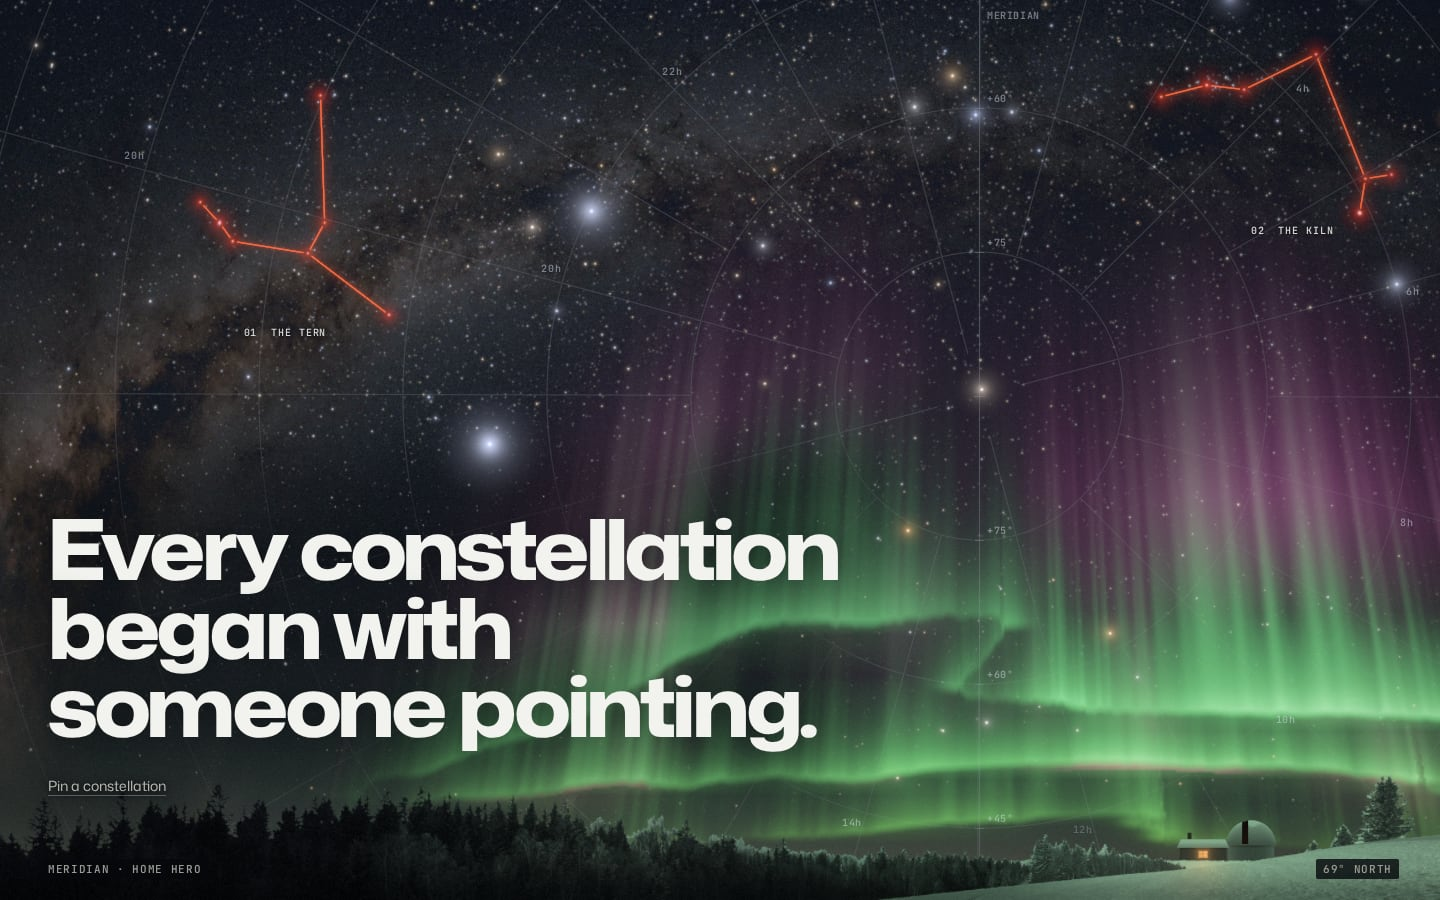
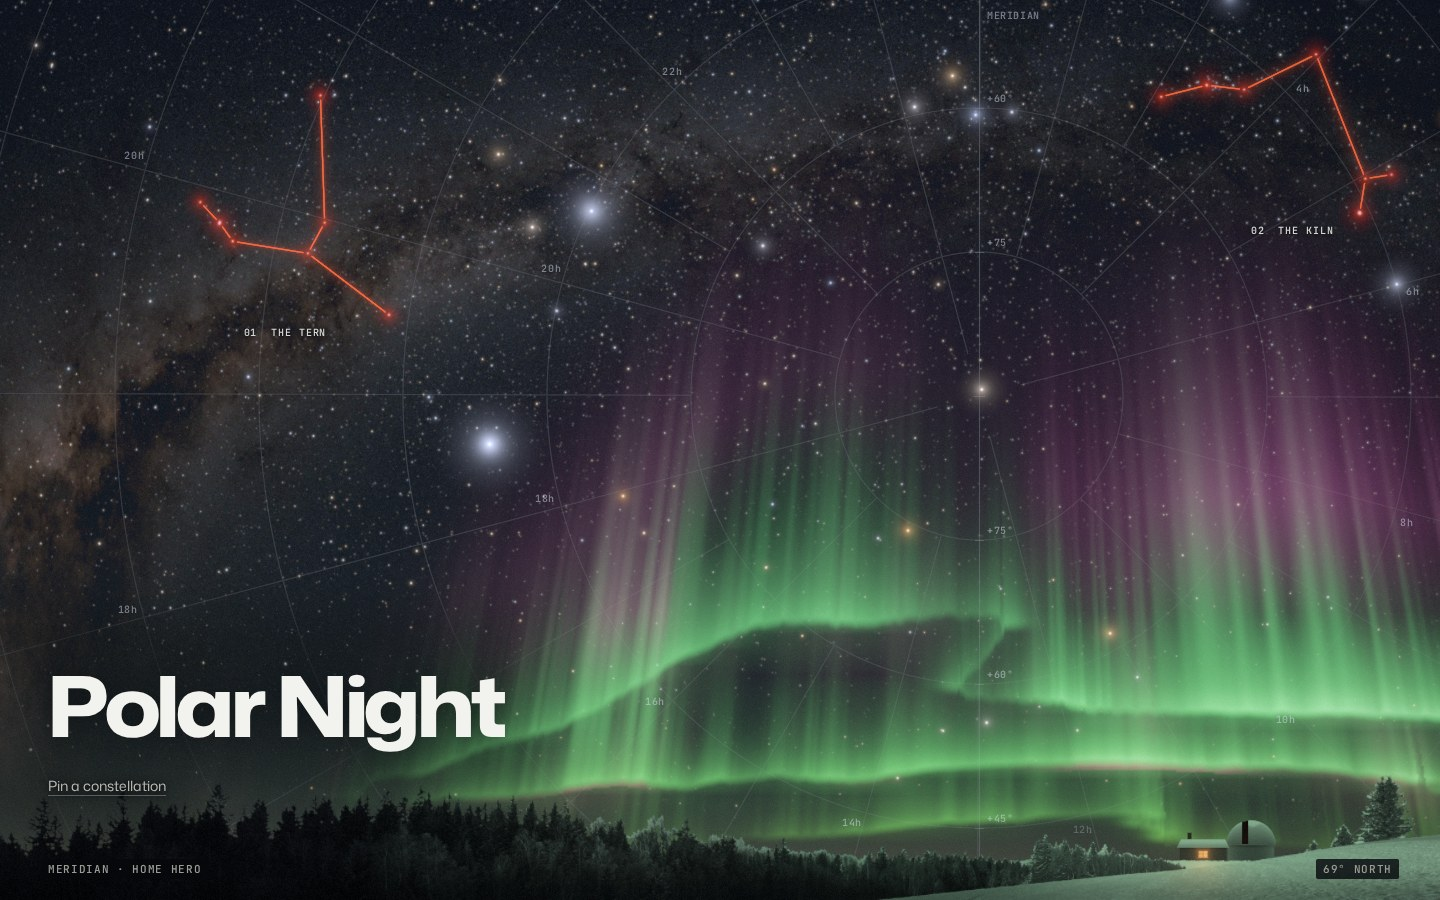
Shorten the star chart headline to "Polar Night"
The old headline was a full sentence that took up a large share of the
hero. README alt text and screenshot follow.

Changed region(s): [[0.0312, 0.5289, 0.5938, 0.8711]]

diff --git a/src/stars/index.js b/src/stars/index.js
@@ -52,7 +52,7 @@ export default function mount(root, options = {}) {
   root.innerHTML = `
     <canvas class="sch__sky" aria-hidden="true"></canvas>
     <canvas class="sch__labels" aria-hidden="true"></canvas>
-    <h1 class="sch__title" id="sch-title">Every constellation began with someone pointing.</h1>
+    <h1 class="sch__title" id="sch-title">Polar Night</h1>
     <button type="button" class="sch__cue">Pin a constellation</button>
     <p class="sr-only" role="status"></p>
     <p class="sch__note"><span>Meridian · home hero</span><span>69° north</span></p>`;

diff --git a/README.md b/README.md
@@ -66,7 +66,7 @@ You are looking straight down into a clear, shallow pond. Sunlight ripples acros
 
 <p>
   <a href="https://burgisimon.github.io/lifelike-heroes/stars.html">
-    <img src="docs/readme/stars.jpg" width="100%" alt="A night sky full of stars with the Milky Way and a green and violet aurora above a snowy spruce forest and a small observatory; two constellations are drawn in glowing red-orange lines beside the headline Every constellation began with someone pointing">
+    <img src="docs/readme/stars.jpg" width="100%" alt="A night sky full of stars with the Milky Way and a green and violet aurora above a snowy spruce forest and a small observatory; two constellations are drawn in glowing red-orange lines above the headline Polar Night">
   </a>
 </p>
 
